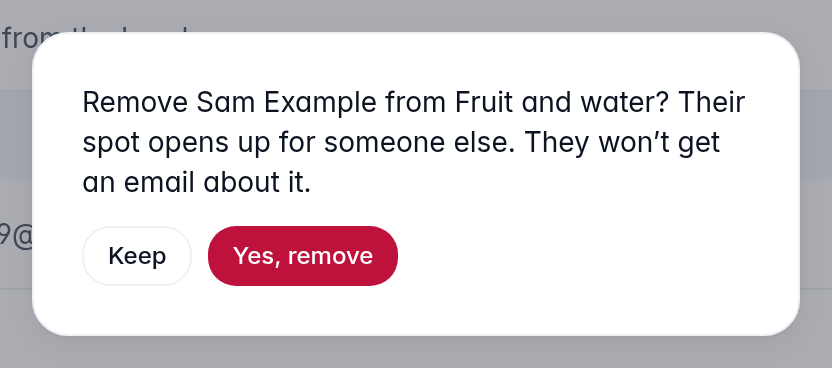
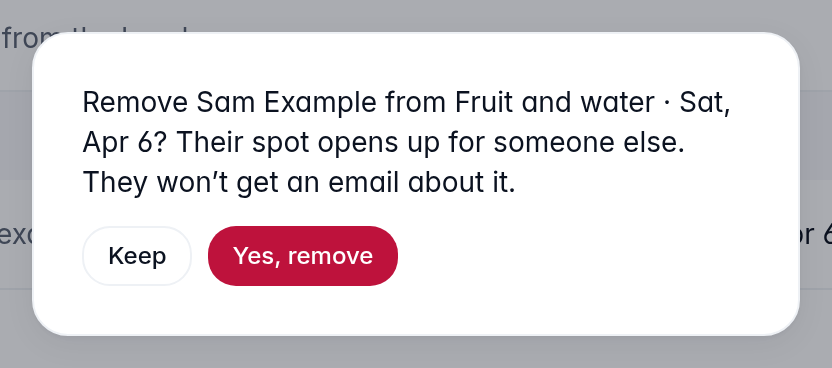
Fix the facts and phone step in "Take someone off a slot"
A fact-check and a style review of the help page found:

- Step 2 said Remove is at the end of the person's row. On a phone each
  person is now a card, with Remove next to their email.
- The page started on the Responses tab. It now starts where an
  organizer lands, on Your signups, and warns that someone signed up for
  two slots shows up twice.
- "Someone else can sign up for it" holds only while the signup is open;
  the tab's number counts sign-ups, so it goes down by one rather than
  "no longer counts them"; and a reminder already sent can't be stopped.
- The screenshot's slot had no date, unlike the same slot on the first
  help page. The walkthrough gives it that page's date, so the question
  reads "Fruit and water · Sat, Apr 6", and the walkthrough checks the
  removed person's page names it.

Claude-Session: https://claude.ai/code/session_0159b8Nfy3w7F8BVwvn37Fc3

diff --git a/src/help/articles/take-someone-off-a-slot.tsx b/src/help/articles/take-someone-off-a-slot.tsx
@@ -7,17 +7,22 @@ export function TakeSomeoneOffASlot() {
   return (
     <>
       <p>
-        You can take one person off a slot, like someone who can&apos;t come and can&apos;t change
-        it themselves. Their spot opens up for someone else, and everyone else stays signed up.
+        You can take one person off a slot, such as someone who can&apos;t come and hasn&apos;t
+        cancelled. Their spot opens up, and everyone else stays signed up.
       </p>
 
       <section className="space-y-4">
         <h2 className="text-xl font-semibold tracking-tight">Remove someone from a slot</h2>
         <p>
-          The person doesn&apos;t get an email about it. You can&apos;t undo this, so check the name
-          first.
+          Removing someone can&apos;t be undone, so check the name and the slot first. They
+          don&apos;t get an email about it.
         </p>
         <Steps>
+          <Step>
+            <p>
+              On the <Ui>{UI.yourSignups}</Ui> page, choose your signup.
+            </p>
+          </Step>
           <Step>
             <p>
               Under your signup&apos;s title, choose the <Ui>{UI.responses}</Ui> tab. It lists
@@ -26,8 +31,12 @@ export function TakeSomeoneOffASlot() {
           </Step>
           <Step>
             <p>
-              Find the person, and choose <Ui>{UI.remove}</Ui> at the end of their row. Only people
-              who are still signed up have this button.
+              Find the person, and choose <Ui>{UI.remove}</Ui> at the end of their row. On a phone,
+              each person has a card, and <Ui>{UI.remove}</Ui> is next to their email.
+            </p>
+            <p>
+              Only people who are still signed up have this button. Someone signed up for more than
+              one slot shows up once for each, so check the slot.
             </p>
           </Step>
           <Step>
@@ -37,7 +46,7 @@ export function TakeSomeoneOffASlot() {
             </p>
             <Screenshot
               src="/help/take-someone-off-a-slot/confirm.png"
-              alt="The question Remove Sam Example from Fruit and water, with Keep and Yes, remove buttons under it."
+              alt="The question Remove Sam Example from Fruit and water · Sat, Apr 6, with two buttons under it: Keep, and Yes, remove."
               width={416}
               height={184}
             />
@@ -49,16 +58,20 @@ export function TakeSomeoneOffASlot() {
         <h2 className="text-xl font-semibold tracking-tight">What happens next</h2>
         <ul className="list-disc space-y-2 pl-6">
           <li>
-            Their spot opens up, so someone else can sign up for it. If they took more than one
-            spot, all of them open up.
+            Their spot opens up. While the signup is open, someone else can sign up for it. If they
+            took more than one spot, all of them open up.
           </li>
           <li>
             They stay on the <Ui>{UI.responses}</Ui> tab, marked <Ui>{UI.removed}</Ui>. The number
-            on the tab no longer counts them.
+            on the tab goes down by one.
           </li>
-          <li>They get no email about it, and no reminder before the slot.</li>
           <li>
-            If they open their link to change or cancel, it says <Ui>{UI.removedPage}</Ui>.
+            They get no email about it. They get no reminder either, unless it went out before you
+            removed them.
+          </li>
+          <li>
+            If they open their link to change or cancel, it says <Ui>{UI.removedPage}</Ui>, and
+            names the slot.
           </li>
         </ul>
       </section>

diff --git a/tests/e2e/help/take-someone-off-a-slot.spec.ts b/tests/e2e/help/take-someone-off-a-slot.spec.ts
@@ -47,9 +47,10 @@ test.describe('help: take someone off a slot', () => {
   test('the steps work as written', async ({ page, context, browser, isMobile }) => {
     test.skip(isMobile, 'the steps are the same on a phone; responses.spec.ts checks it fits');
     await loginAsSeededOrganizer(context);
+    const title = `Snack duty ${Date.now()}`;
     const created = await page.request.post('/api/signups', {
       data: {
-        title: `Snack duty ${Date.now()}`,
+        title,
         description: '',
         tags: [],
         visibility: 'unlisted',
@@ -59,7 +60,8 @@ test.describe('help: take someone off a slot', () => {
     expect(created.ok()).toBe(true);
     const { id, slug } = (await created.json()).data as { id: string; slug: string };
     const added = await page.request.post(`/api/signups/${id}/slots`, {
-      data: { capacity: 1, values: { what: 'Fruit and water' } },
+      // The slot "Create and publish your first signup" makes, on its date.
+      data: { capacity: 1, values: { what: 'Fruit and water', date: '2030-04-06' } },
     });
     expect(added.ok()).toBe(true);
     const slotId = (await added.json()).data.id as string;
@@ -80,7 +82,10 @@ test.describe('help: take someone off a slot', () => {
       const editUrl = (await committed.json()).data.editUrl as string;
 
       // Remove someone from a slot
-      await page.goto(`/app/signups/${id}/build`);
+      await page.goto('/app');
+      await expect(page.getByRole('heading', { name: UI.yourSignups })).toBeVisible();
+      await page.getByRole('link').filter({ hasText: title }).click();
+      await page.waitForURL(new RegExp(`/app/signups/${id}`));
       await page.getByRole('tab', { name: new RegExp(`^${UI.responses}`) }).click();
       await page.waitForURL(/\/responses$/);
       const row = page.getByRole('row').filter({ hasText: 'Sam Example' });
@@ -91,7 +96,7 @@ test.describe('help: take someone off a slot', () => {
       await expect(remove).toHaveText(UI.remove);
       await remove.click();
       const confirm = page.getByRole('alertdialog');
-      await expect(confirm).toContainText('Remove Sam Example from Fruit and water?');
+      await expect(confirm).toContainText('Remove Sam Example from Fruit and water · Sat, Apr 6?');
       await expect(confirm).toContainText('won’t get an email');
       // Keep leaves them on the slot.
       await confirm.getByRole('button', { name: UI.keep }).click();
@@ -114,6 +119,7 @@ test.describe('help: take someone off a slot', () => {
 
       await visitor.goto(editUrl);
       await expect(visitor.getByRole('heading', { name: UI.removedPage })).toBeVisible();
+      await expect(visitor.getByText('Fruit and water · Sat, Apr 6', { exact: true })).toBeVisible();
     } finally {
       await participant.close();
     }

diff --git a/src/help/articles/take-someone-off-a-slot.ui.ts b/src/help/articles/take-someone-off-a-slot.ui.ts
@@ -6,9 +6,12 @@
  * too.
  */
 export const UI = {
+  // The organizer's home page, which lists their signups.
+  yourSignups: 'Your signups',
   // The tab reads "Responses 2"; the count changes, so the test matches the start.
   responses: 'Responses',
-  // Each row's button shows Remove; its full name adds the person and the slot.
+  // Each row's button (on a phone, each card's) shows Remove; its full name
+  // adds the person and the slot.
   remove: 'Remove',
   // The confirmation's buttons.
   keep: 'Keep',
